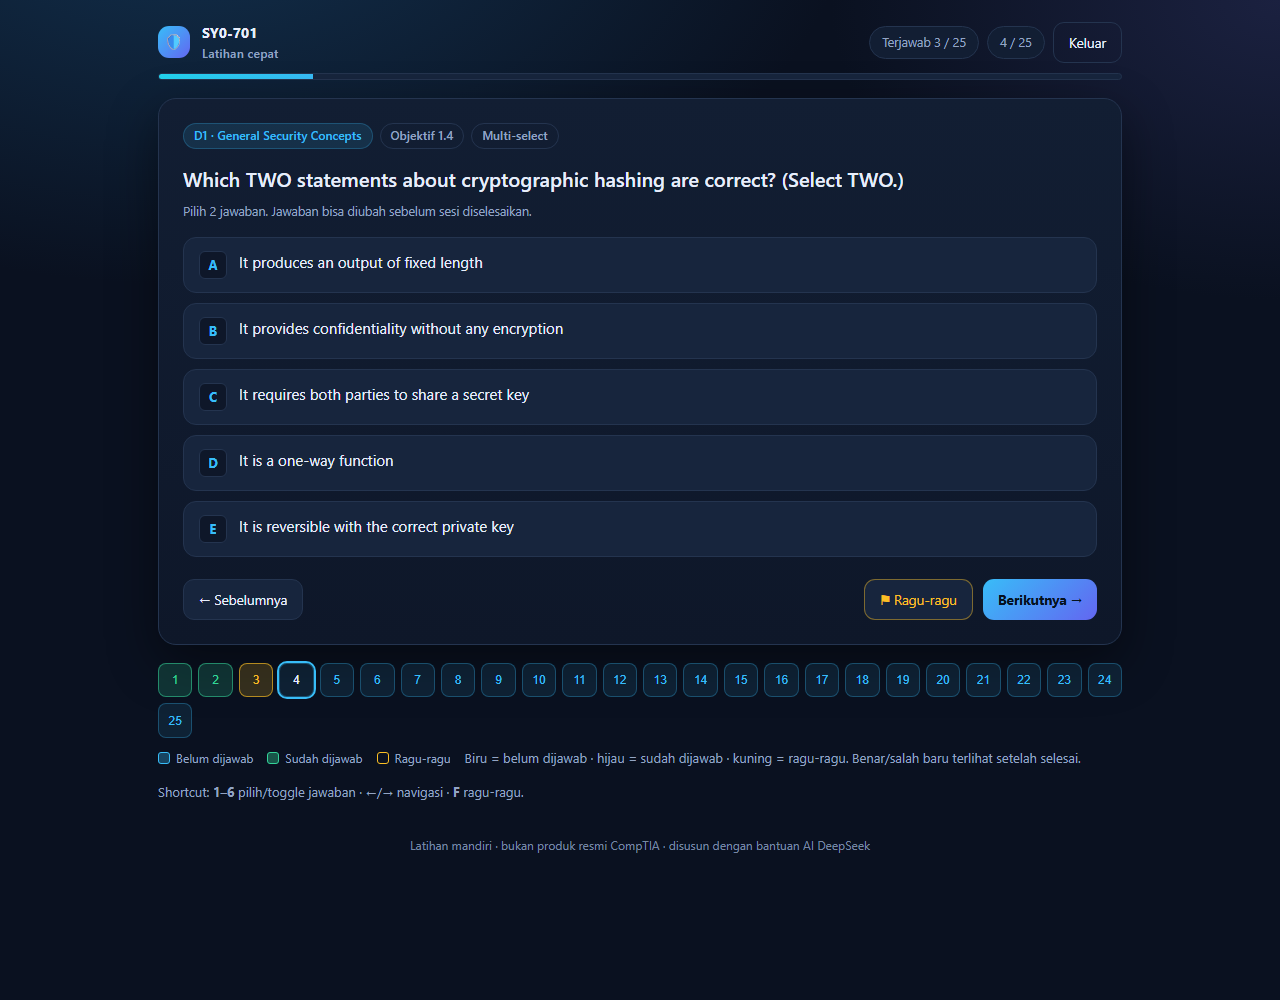
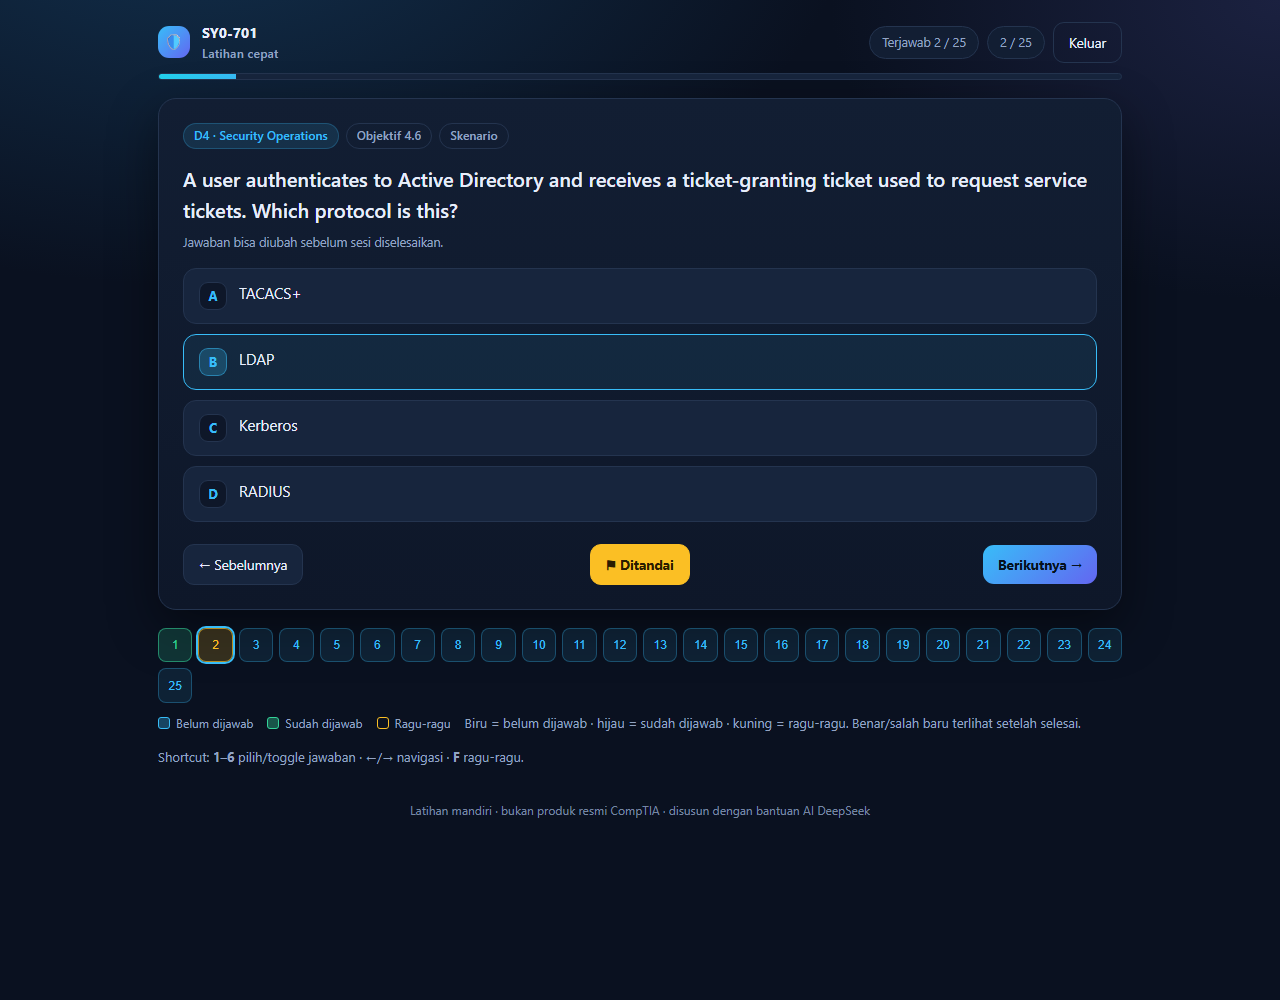
Open past sessions from history and center the flag button
- Persist question ids and answers per session so history entries can reopen the full result
- Add a Pembahasan button in the practice history table; old entries without detail are marked
- Reopen reviews without recording a new session or changing stats
- Center the Ragu-ragu button between Sebelumnya and Lanjut, with a solid amber active state
- Add horizontal scrolling for the history table on narrow screens

diff --git a/dist/quiz.html b/dist/quiz.html
@@ -72,7 +72,8 @@ select{background:var(--card2);color:var(--txt);border:1px solid var(--line);
 .dombtn{background:var(--card2);border:1px solid var(--line);color:var(--txt);
   padding:8px 12px;border-radius:10px;cursor:pointer;font-size:13px;text-align:left}
 .dombtn:hover{border-color:var(--accent)}
-.hist{margin-top:22px;background:var(--card);border:1px solid var(--line);border-radius:16px;padding:16px 18px}
+.hist{margin-top:22px;background:var(--card);border:1px solid var(--line);border-radius:16px;padding:16px 18px;overflow-x:auto}
+.hist table{min-width:640px}
 .hist h3{margin:0 0 8px;font-size:15px}
 table{width:100%;border-collapse:collapse;font-size:13px}
 td,th{text-align:left;padding:7px 6px;border-bottom:1px solid var(--line);color:var(--muted)}
@@ -137,6 +138,12 @@ tr:last-child td{border-bottom:0}
 .fb code,.pbq code{background:var(--bg2);border:1px solid var(--line);border-radius:5px;padding:1px 5px;font-size:.9em}
 .nav{display:flex;justify-content:space-between;gap:10px;margin-top:22px;flex-wrap:wrap}
 .nav .right{display:flex;gap:10px;margin-left:auto}
+.qnav{display:grid;grid-template-columns:1fr auto 1fr;gap:10px;align-items:center;margin-top:22px}
+.qnav #prevBtn{justify-self:start}
+.qnav #nextBtn{justify-self:end}
+.qnav .flagbtn{justify-self:center;border-color:rgba(251,191,36,.5);color:var(--warn);background:rgba(251,191,36,.07)}
+.qnav .flagbtn.flag-on{background:var(--warn);color:#2a1d00;border-color:var(--warn);font-weight:700}
+@media (max-width:560px){.qnav{grid-template-columns:1fr 1fr 1fr}.qnav .btn{padding:9px 8px;font-size:12px}}
 .grid{display:grid;grid-template-columns:repeat(auto-fill,minmax(34px,1fr));gap:6px;margin-top:18px}
 .dot{aspect-ratio:1;border-radius:8px;border:1px solid rgba(56,189,248,.3);background:rgba(56,189,248,.1);color:var(--accent);
   font-size:12px;cursor:pointer;display:grid;place-items:center}
@@ -408,12 +415,10 @@ tr:last-child td{border-bottom:0}
       <p class="hint" id="hint"></p>
       <div class="opts" id="opts"></div>
       <div class="fb" id="fb"></div>
-      <div class="nav">
+      <div class="qnav">
         <button class="btn" id="prevBtn">← Sebelumnya</button>
-        <div class="right">
-          <button class="btn warn" id="flagBtn">⚑ Ragu-ragu</button>
-          <button class="btn primary" id="nextBtn">Berikutnya →</button>
-        </div>
+        <button class="btn flagbtn" id="flagBtn">⚑ Ragu-ragu</button>
+        <button class="btn primary" id="nextBtn">Berikutnya →</button>
       </div>
     </div>
 
@@ -538,7 +543,8 @@ const isCorrect = (q) => {
 /* ---------- state ---------- */
 const S = {
   mode: null, domain: null, list: [], idx: 0, sel: {}, flags: new Set(),
-  start: 0, remain: 0, timer: null, finished: false, autoSubmit: false
+  start: 0, remain: 0, timer: null, finished: false, autoSubmit: false,
+  fromHistory: false, durationOverride: null
 };
 
 /* ---------- tabs ---------- */
@@ -591,7 +597,8 @@ function refreshHome() {
                  d.toLocaleTimeString("id-ID", { hour: "2-digit", minute: "2-digit" });
     return `<tr><td>${when}</td><td>${h.mode}</td><td>${h.total} soal</td>
             <td><b>${h.scaled}</b></td>
-            <td><span class="pill ${h.scaled >= PASS_SCALED ? "pass" : "fail"}">${h.scaled >= PASS_SCALED ? "LULUS" : "BELUM"}</span></td></tr>`;
+            <td><span class="pill ${h.scaled >= PASS_SCALED ? "pass" : "fail"}">${h.scaled >= PASS_SCALED ? "LULUS" : "BELUM"}</span></td>
+            <td>${h.ids ? `<button class="btn history-open" data-ts="${h.ts}">Pembahasan</button>` : '<span class="note">tanpa detail</span>'}</td></tr>`;
   }).join("");
   $("histBody").innerHTML = `
     <div class="stats" style="margin:0 0 12px">
@@ -600,8 +607,29 @@ function refreshHome() {
       <span class="chip">Rata-rata: <b>${avg}</b></span>
       <span class="chip">Soal pernah salah: <b>${w}</b></span>
     </div>
-    <table><thead><tr><th>Waktu</th><th>Mode</th><th>Jumlah</th><th>Skor</th><th>Status</th></tr></thead>
+    <table><thead><tr><th>Waktu</th><th>Mode</th><th>Jumlah</th><th>Skor</th><th>Status</th><th>Aksi</th></tr></thead>
     <tbody>${rows}</tbody></table>`;
+  $("histBody").querySelectorAll(".history-open").forEach(b => b.addEventListener("click", () => {
+    openHistory(+b.dataset.ts);
+  }));
+}
+
+function openHistory(ts) {
+  const h = loadJSON(LS_HIST, []).find(x => x.ts === ts);
+  if (!h || !h.ids) return;
+  const list = h.ids.map(id => BANK.find(q => q.id === id)).filter(Boolean);
+  if (!list.length) return;
+  S.mode = h.mode === "Simulasi" ? "exam" : "quick";
+  S.domain = null; S.list = list; S.sel = h.sel || {};
+  S.flags = new Set(); S.finished = false; S.autoSubmit = !!h.auto;
+  S.fromHistory = true; S.durationOverride = h.secs != null ? h.secs : 0;
+  S.start = Date.now() - (h.secs || 0) * 1000;
+  $("tabbar").classList.add("hide");
+  $("topbar").classList.add("hide");
+  ["practice", "pbq", "stats", "guide"].forEach(t => $("tab-" + t).classList.add("hide"));
+  $("quiz").classList.add("hide");
+  finish();
+  window.scrollTo({ top: 0, behavior: "smooth" });
 }
 
 function buildObjectiveSelect() {
@@ -736,7 +764,8 @@ function startSession(mode, list, domain) {
   if (!list.length) return;
   S.mode = mode; S.domain = domain || null; S.list = list; S.idx = 0;
   S.sel = {}; S.flags = new Set();
-  S.finished = false; S.autoSubmit = false; S.start = Date.now(); S.remain = mode === "exam" ? 90 * 60 : 0;
+  S.finished = false; S.autoSubmit = false; S.fromHistory = false; S.durationOverride = null;
+  S.start = Date.now(); S.remain = mode === "exam" ? 90 * 60 : 0;
 
   $("tabbar").classList.add("hide");
   $("topbar").classList.add("hide");
@@ -915,14 +944,16 @@ function finish() {
     perDom[q.d].total++;
     if (!hasAnswer(q)) { skip++; continue; }
     const good = isCorrect(q);
-    recordResult(q.id, good);
-    updateWrongList(q);
+    if (!S.fromHistory) {
+      recordResult(q.id, good);
+      updateWrongList(q);
+    }
     if (good) { ok++; perDom[q.d].ok++; } else bad++;
   }
   const pct = Math.round(ok / total * 100);
   const scaled = 100 + Math.round(pct * 8);
   const pass = scaled >= PASS_SCALED;
-  const secs = Math.round((Date.now() - S.start) / 1000);
+  const secs = S.durationOverride != null ? S.durationOverride : Math.round((Date.now() - S.start) / 1000);
 
   $("scoreNum").textContent = scaled;
   $("scoreRing").style.setProperty("--deg", (scaled / 900 * 360) + "deg");
@@ -991,9 +1022,15 @@ function finish() {
       </div></details>`;
     }).join("");
 
-  const hist = loadJSON(LS_HIST, []);
-  hist.push({ ts: Date.now(), mode: S.mode === "exam" ? "Simulasi" : "Latihan", total, ok, comp: pct, scaled, secs });
-  saveJSON(LS_HIST, hist.slice(-50));
+  if (!S.fromHistory) {
+    const hist = loadJSON(LS_HIST, []);
+    hist.push({
+      ts: Date.now(), mode: S.mode === "exam" ? "Simulasi" : "Latihan",
+      total, ok, comp: pct, scaled, secs, auto: S.autoSubmit,
+      ids: S.list.map(q => q.id), sel: S.sel
+    });
+    saveJSON(LS_HIST, hist.slice(-30));
+  }
 
   $("retryWrongBtn").classList.toggle("hide", !miss.length);
   refreshHome();

diff --git a/tools/build_html.py b/tools/build_html.py
@@ -200,7 +200,8 @@ select{background:var(--card2);color:var(--txt);border:1px solid var(--line);
 .dombtn{background:var(--card2);border:1px solid var(--line);color:var(--txt);
   padding:8px 12px;border-radius:10px;cursor:pointer;font-size:13px;text-align:left}
 .dombtn:hover{border-color:var(--accent)}
-.hist{margin-top:22px;background:var(--card);border:1px solid var(--line);border-radius:16px;padding:16px 18px}
+.hist{margin-top:22px;background:var(--card);border:1px solid var(--line);border-radius:16px;padding:16px 18px;overflow-x:auto}
+.hist table{min-width:640px}
 .hist h3{margin:0 0 8px;font-size:15px}
 table{width:100%;border-collapse:collapse;font-size:13px}
 td,th{text-align:left;padding:7px 6px;border-bottom:1px solid var(--line);color:var(--muted)}
@@ -265,6 +266,12 @@ tr:last-child td{border-bottom:0}
 .fb code,.pbq code{background:var(--bg2);border:1px solid var(--line);border-radius:5px;padding:1px 5px;font-size:.9em}
 .nav{display:flex;justify-content:space-between;gap:10px;margin-top:22px;flex-wrap:wrap}
 .nav .right{display:flex;gap:10px;margin-left:auto}
+.qnav{display:grid;grid-template-columns:1fr auto 1fr;gap:10px;align-items:center;margin-top:22px}
+.qnav #prevBtn{justify-self:start}
+.qnav #nextBtn{justify-self:end}
+.qnav .flagbtn{justify-self:center;border-color:rgba(251,191,36,.5);color:var(--warn);background:rgba(251,191,36,.07)}
+.qnav .flagbtn.flag-on{background:var(--warn);color:#2a1d00;border-color:var(--warn);font-weight:700}
+@media (max-width:560px){.qnav{grid-template-columns:1fr 1fr 1fr}.qnav .btn{padding:9px 8px;font-size:12px}}
 .grid{display:grid;grid-template-columns:repeat(auto-fill,minmax(34px,1fr));gap:6px;margin-top:18px}
 .dot{aspect-ratio:1;border-radius:8px;border:1px solid rgba(56,189,248,.3);background:rgba(56,189,248,.1);color:var(--accent);
   font-size:12px;cursor:pointer;display:grid;place-items:center}
@@ -536,12 +543,10 @@ tr:last-child td{border-bottom:0}
       <p class="hint" id="hint"></p>
       <div class="opts" id="opts"></div>
       <div class="fb" id="fb"></div>
-      <div class="nav">
+      <div class="qnav">
         <button class="btn" id="prevBtn">← Sebelumnya</button>
-        <div class="right">
-          <button class="btn warn" id="flagBtn">⚑ Ragu-ragu</button>
-          <button class="btn primary" id="nextBtn">Berikutnya →</button>
-        </div>
+        <button class="btn flagbtn" id="flagBtn">⚑ Ragu-ragu</button>
+        <button class="btn primary" id="nextBtn">Berikutnya →</button>
       </div>
     </div>
 
@@ -666,7 +671,8 @@ const isCorrect = (q) => {
 /* ---------- state ---------- */
 const S = {
   mode: null, domain: null, list: [], idx: 0, sel: {}, flags: new Set(),
-  start: 0, remain: 0, timer: null, finished: false, autoSubmit: false
+  start: 0, remain: 0, timer: null, finished: false, autoSubmit: false,
+  fromHistory: false, durationOverride: null
 };
 
 /* ---------- tabs ---------- */
@@ -719,7 +725,8 @@ function refreshHome() {
                  d.toLocaleTimeString("id-ID", { hour: "2-digit", minute: "2-digit" });
     return `<tr><td>${when}</td><td>${h.mode}</td><td>${h.total} soal</td>
             <td><b>${h.scaled}</b></td>
-            <td><span class="pill ${h.scaled >= PASS_SCALED ? "pass" : "fail"}">${h.scaled >= PASS_SCALED ? "LULUS" : "BELUM"}</span></td></tr>`;
+            <td><span class="pill ${h.scaled >= PASS_SCALED ? "pass" : "fail"}">${h.scaled >= PASS_SCALED ? "LULUS" : "BELUM"}</span></td>
+            <td>${h.ids ? `<button class="btn history-open" data-ts="${h.ts}">Pembahasan</button>` : '<span class="note">tanpa detail</span>'}</td></tr>`;
   }).join("");
   $("histBody").innerHTML = `
     <div class="stats" style="margin:0 0 12px">
@@ -728,8 +735,29 @@ function refreshHome() {
       <span class="chip">Rata-rata: <b>${avg}</b></span>
       <span class="chip">Soal pernah salah: <b>${w}</b></span>
     </div>
-    <table><thead><tr><th>Waktu</th><th>Mode</th><th>Jumlah</th><th>Skor</th><th>Status</th></tr></thead>
+    <table><thead><tr><th>Waktu</th><th>Mode</th><th>Jumlah</th><th>Skor</th><th>Status</th><th>Aksi</th></tr></thead>
     <tbody>${rows}</tbody></table>`;
+  $("histBody").querySelectorAll(".history-open").forEach(b => b.addEventListener("click", () => {
+    openHistory(+b.dataset.ts);
+  }));
+}
+
+function openHistory(ts) {
+  const h = loadJSON(LS_HIST, []).find(x => x.ts === ts);
+  if (!h || !h.ids) return;
+  const list = h.ids.map(id => BANK.find(q => q.id === id)).filter(Boolean);
+  if (!list.length) return;
+  S.mode = h.mode === "Simulasi" ? "exam" : "quick";
+  S.domain = null; S.list = list; S.sel = h.sel || {};
+  S.flags = new Set(); S.finished = false; S.autoSubmit = !!h.auto;
+  S.fromHistory = true; S.durationOverride = h.secs != null ? h.secs : 0;
+  S.start = Date.now() - (h.secs || 0) * 1000;
+  $("tabbar").classList.add("hide");
+  $("topbar").classList.add("hide");
+  ["practice", "pbq", "stats", "guide"].forEach(t => $("tab-" + t).classList.add("hide"));
+  $("quiz").classList.add("hide");
+  finish();
+  window.scrollTo({ top: 0, behavior: "smooth" });
 }
 
 function buildObjectiveSelect() {
@@ -864,7 +892,8 @@ function startSession(mode, list, domain) {
   if (!list.length) return;
   S.mode = mode; S.domain = domain || null; S.list = list; S.idx = 0;
   S.sel = {}; S.flags = new Set();
-  S.finished = false; S.autoSubmit = false; S.start = Date.now(); S.remain = mode === "exam" ? 90 * 60 : 0;
+  S.finished = false; S.autoSubmit = false; S.fromHistory = false; S.durationOverride = null;
+  S.start = Date.now(); S.remain = mode === "exam" ? 90 * 60 : 0;
 
   $("tabbar").classList.add("hide");
   $("topbar").classList.add("hide");
@@ -1043,14 +1072,16 @@ function finish() {
     perDom[q.d].total++;
     if (!hasAnswer(q)) { skip++; continue; }
     const good = isCorrect(q);
-    recordResult(q.id, good);
-    updateWrongList(q);
+    if (!S.fromHistory) {
+      recordResult(q.id, good);
+      updateWrongList(q);
+    }
     if (good) { ok++; perDom[q.d].ok++; } else bad++;
   }
   const pct = Math.round(ok / total * 100);
   const scaled = 100 + Math.round(pct * 8);
   const pass = scaled >= PASS_SCALED;
-  const secs = Math.round((Date.now() - S.start) / 1000);
+  const secs = S.durationOverride != null ? S.durationOverride : Math.round((Date.now() - S.start) / 1000);
 
   $("scoreNum").textContent = scaled;
   $("scoreRing").style.setProperty("--deg", (scaled / 900 * 360) + "deg");
@@ -1119,9 +1150,15 @@ function finish() {
       </div></details>`;
     }).join("");
 
-  const hist = loadJSON(LS_HIST, []);
-  hist.push({ ts: Date.now(), mode: S.mode === "exam" ? "Simulasi" : "Latihan", total, ok, comp: pct, scaled, secs });
-  saveJSON(LS_HIST, hist.slice(-50));
+  if (!S.fromHistory) {
+    const hist = loadJSON(LS_HIST, []);
+    hist.push({
+      ts: Date.now(), mode: S.mode === "exam" ? "Simulasi" : "Latihan",
+      total, ok, comp: pct, scaled, secs, auto: S.autoSubmit,
+      ids: S.list.map(q => q.id), sel: S.sel
+    });
+    saveJSON(LS_HIST, hist.slice(-30));
+  }
 
   $("retryWrongBtn").classList.toggle("hide", !miss.length);
   refreshHome();

diff --git a/README.md b/README.md
@@ -65,6 +65,8 @@ Total **300 MCQ + 12 PBQ**. Kunci jawaban pilihan tunggal disebar merata di A/B/
 - **Wajib hapus tanda ragu-ragu** sebelum bisa submit; soal kosong tetap boleh disubmit dengan peringatan.
 - **Peta jawaban & hasil per objektif** — setelah selesai, klik nomor di peta untuk membuka pembahasan soal tersebut; objektif terlemah diurutkan paling atas.
 - **Penilaian PBQ mandiri** — tandai *Paham* / *Belum paham* per PBQ, tercatat di statistik.
+- **Riwayat bisa dibuka lagi** — setiap sesi baru menyimpan daftar soal dan jawaban, jadi tombol *Pembahasan* di riwayat membuka ulang hasil lengkap (skor, peta jawaban, pembahasan). Sesi lama tanpa data detail ditandai “tanpa detail”.
+- **Navigasi tengah** — tombol *Sebelumnya* di kiri, *Ragu-ragu* di tengah (kuning saat aktif), *Lanjut* di kanan.
 - **Tema terang/gelap**, navigasi grid soal, shortcut keyboard (`1`–`6`, `←`/`→`, `F`).
 
 > Skor 100–900 adalah simulasi sederhana (persentase benar dipetakan ke skala), bukan penskoran resmi CompTIA. Anggap ≥750 sebagai indikasi siap, bukan jaminan.
